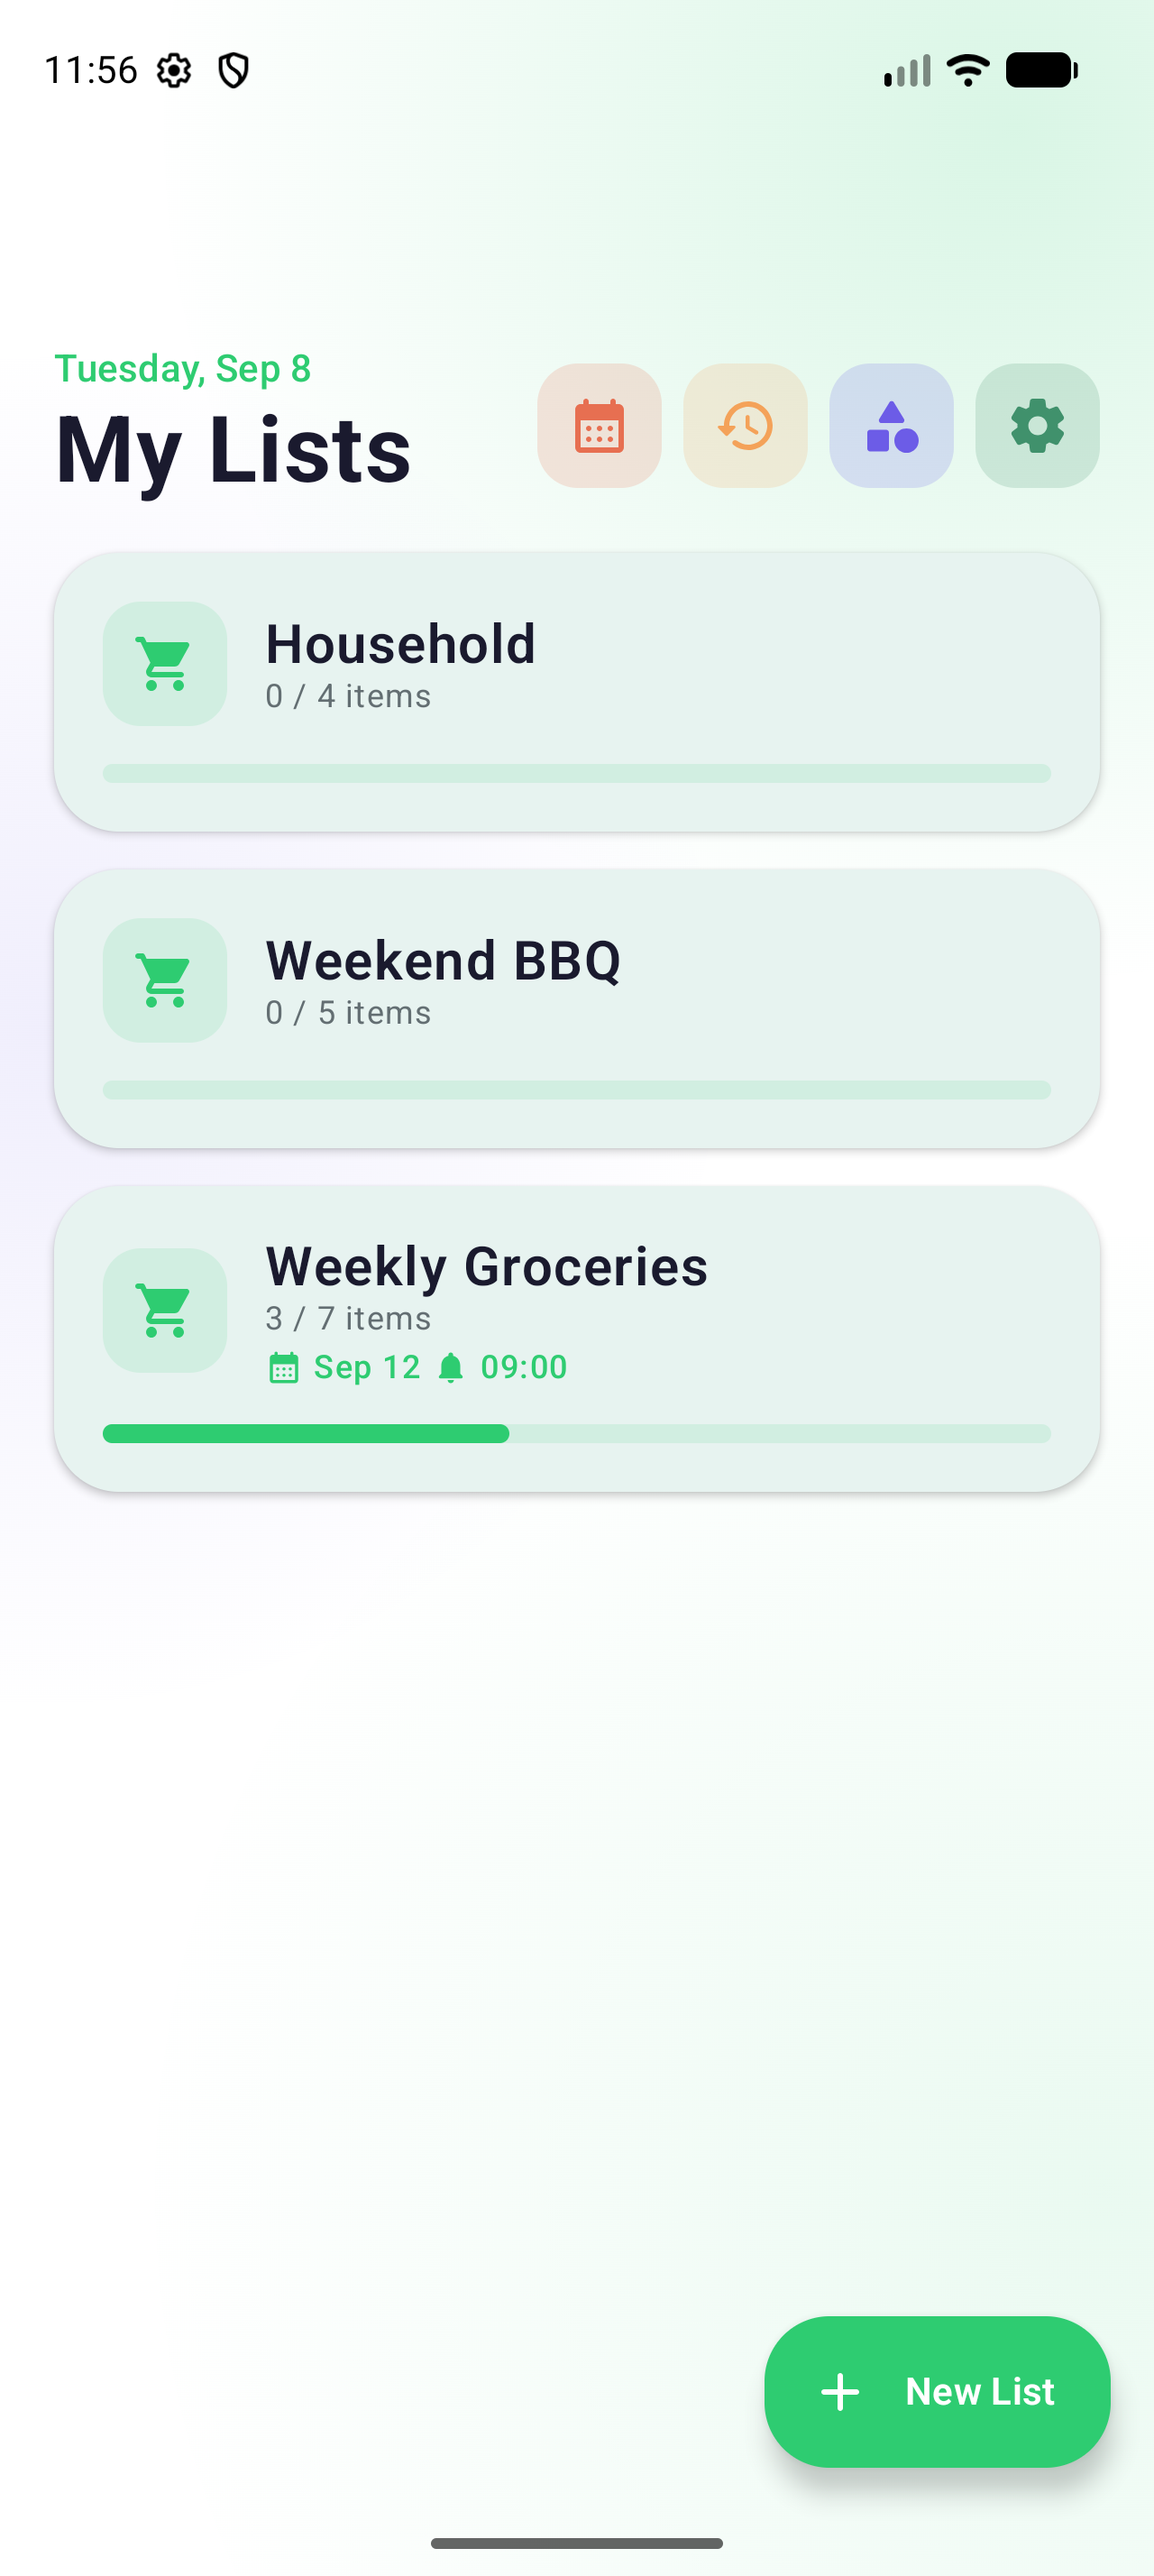
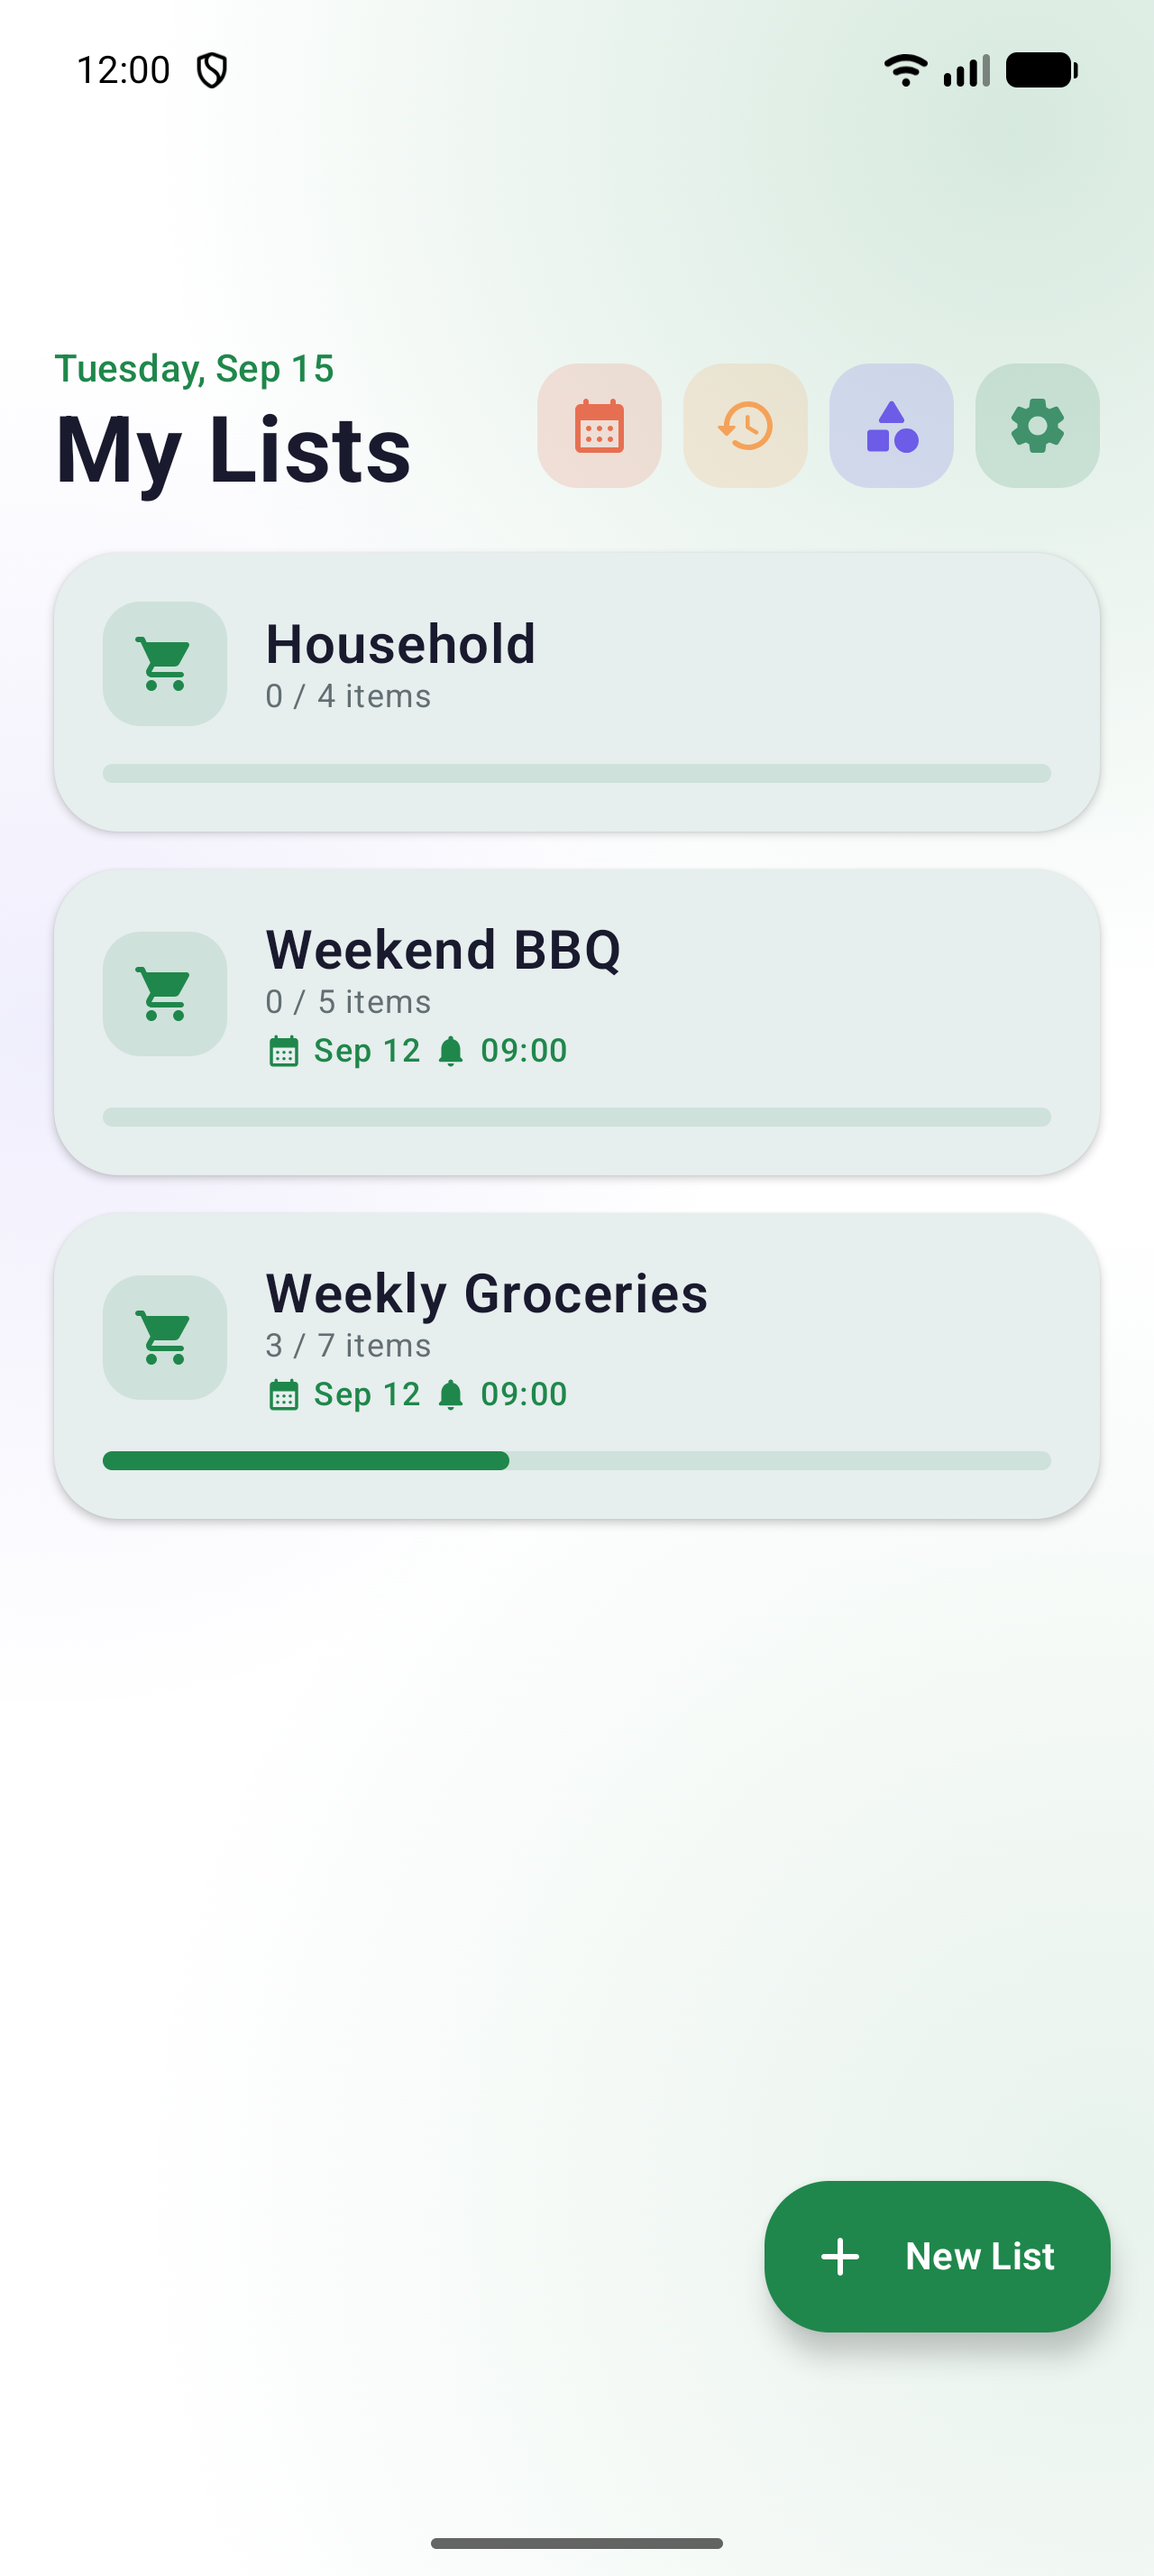
Update store listing, screenshots and README for the new palette
The listing copy in all three languages now says fifteen accent colours.
Phone screenshots 02-06 are retaken with the toned accents and a clean
status bar, and the release checklist records the accessibility fixes.

diff --git a/README.md b/README.md
@@ -21,9 +21,9 @@
 
 ## Screenshots
 
-| Lists | Auto-sorted items | Calendar |
-|---|---|---|
-| <img src="store/screenshots/phone-en/02-my-lists.png" width="220"> | <img src="store/screenshots/phone-en/03-list-detail.png" width="220"> | <img src="store/screenshots/phone-en/05-calendar.png" width="220"> |
+| Lists | Auto-sorted items | Calendar | Accent colours |
+|---|---|---|---|
+| <img src="store/screenshots/phone-en/02-my-lists.png" width="200"> | <img src="store/screenshots/phone-en/03-list-detail.png" width="200"> | <img src="store/screenshots/phone-en/05-calendar.png" width="200"> | <img src="store/screenshots/phone-en/06-settings.png" width="200"> |
 
 ## What it does
 
@@ -37,8 +37,10 @@
   whole month in the built-in calendar.
 - **Keeps history.** Finished lists move to History rather than disappearing.
 - **Shares.** Send any list as plain text.
-- **Adapts.** Light / dark / system theme, ten accent colours, and three languages
+- **Adapts.** Light / dark / system theme, fifteen accent colours, and three languages
   (English, Türkçe, Svenska).
+- **Stays readable.** Each accent colour is tuned to meet WCAG AA text contrast in both
+  light and dark mode, and the colour picker works with TalkBack.
 
 Everything runs **offline**. There is no account, no sign-up and no server — your
 lists are stored only on your device.
@@ -66,7 +68,7 @@ app/src/main/java/com/listo/app/
 │   ├── screens/   Splash, onboarding, lists, list detail, calendar,
 │   │              categories, category items, history, settings
 │   ├── components/ Reusable Compose pieces (top bar, cards, ad banner…)
-│   ├── theme/     Colour, typography, shape
+│   ├── theme/     Colour, typography, shape, accent contrast
 │   └── viewmodel/ One view model per screen
 └── utils/         Grocery catalog, date helpers, notifications, preferences
 ```

diff --git a/store/RELEASE-CHECKLIST.md b/store/RELEASE-CHECKLIST.md
@@ -1,11 +1,13 @@
 # Listo — Google Play release checklist
 
-Status as of 8 September 2026. Ticked items are done and in the repo; unticked items
+Status as of 15 September 2026. Ticked items are done and in the repo; unticked items
 still need work. Items marked **BLOCKER** must be fixed before a public release.
 
 ## 1. Store assets — done
 
 - [x] Phone screenshots (6), English — `store/screenshots/phone-en/`
+      (02–06 retaken on 15 September 2026 after the accent-colour update, with a clean
+      demo-mode status bar; 01 onboarding does not use the accent and is unchanged)
 - [x] App icon 512×512 PNG — `store/graphics/icon-512.png`
 - [x] Feature graphic 1024×500 PNG — `store/graphics/feature-graphic-1024x500.png`
 - [x] Listing copy in English, Turkish, Swedish — `store/listing/`
@@ -30,6 +32,14 @@ still need work. Items marked **BLOCKER** must be fixed before a public release.
       `SplashViewModel` where to go (`StartDestination.afterSplash`), and
       `OnboardingScreen` persists `setOnboardingDone(true)` before navigating away.
       Covered by `StartDestinationTest`; verified with a cold restart on an emulator.
+- [x] **Accent colours were hard to read.** White text on light accents such as Green
+      and Amber was about 2:1. `ColorContrast` now tones each accent just enough to
+      reach WCAG AA (4.5:1) against the light and dark backgrounds, covered by
+      `ColorContrastTest` and `AccentTonesTest`. The palette grew from 10 to 15 colours,
+      with names translated into all three languages.
+- [x] **Accent picker accessibility.** 48dp touch targets; TalkBack reads each colour's
+      name as a radio button within one group; unselected swatches no longer draw a
+      hairline ring.
 
 ## 3. Monetisation and consent
 

diff --git a/store/listing/en-US.md b/store/listing/en-US.md
@@ -25,7 +25,7 @@ WHY LISTO
 MADE TO STAY OUT OF THE WAY
 • No account, no sign-up, no cloud. Your lists stay on your phone.
 • Works fully offline.
-• Light, dark or follow-the-system theme, plus ten accent colours.
+• Light, dark or follow-the-system theme, plus fifteen accent colours tuned for easy reading.
 • Available in English, Türkçe and Svenska.
 
 FREE

diff --git a/store/listing/sv-SE.md b/store/listing/sv-SE.md
@@ -26,7 +26,7 @@ DÄRFÖR LISTO
 BYGGD FÖR ATT INTE VARA I VÄGEN
 • Inget konto, ingen registrering, inget moln. Listorna stannar i telefonen.
 • Fungerar helt offline.
-• Ljust, mörkt eller systemets tema, plus tio accentfärger.
+• Ljust, mörkt eller systemets tema, plus femton lättlästa accentfärger.
 • Finns på English, Türkçe och Svenska.
 
 GRATIS

diff --git a/store/listing/tr-TR.md b/store/listing/tr-TR.md
@@ -25,7 +25,7 @@ NEDEN LISTO
 YOLUNDAN ÇEKİLEN BİR UYGULAMA
 • Hesap yok, kayıt yok, bulut yok. Listelerin telefonunda kalır.
 • Tamamen çevrimdışı çalışır.
-• Açık, koyu veya sistem teması ve on vurgu rengi.
+• Açık, koyu veya sistem teması ve kolay okunan on beş vurgu rengi.
 • English, Türkçe ve Svenska dillerinde.
 
 ÜCRETSİZ
